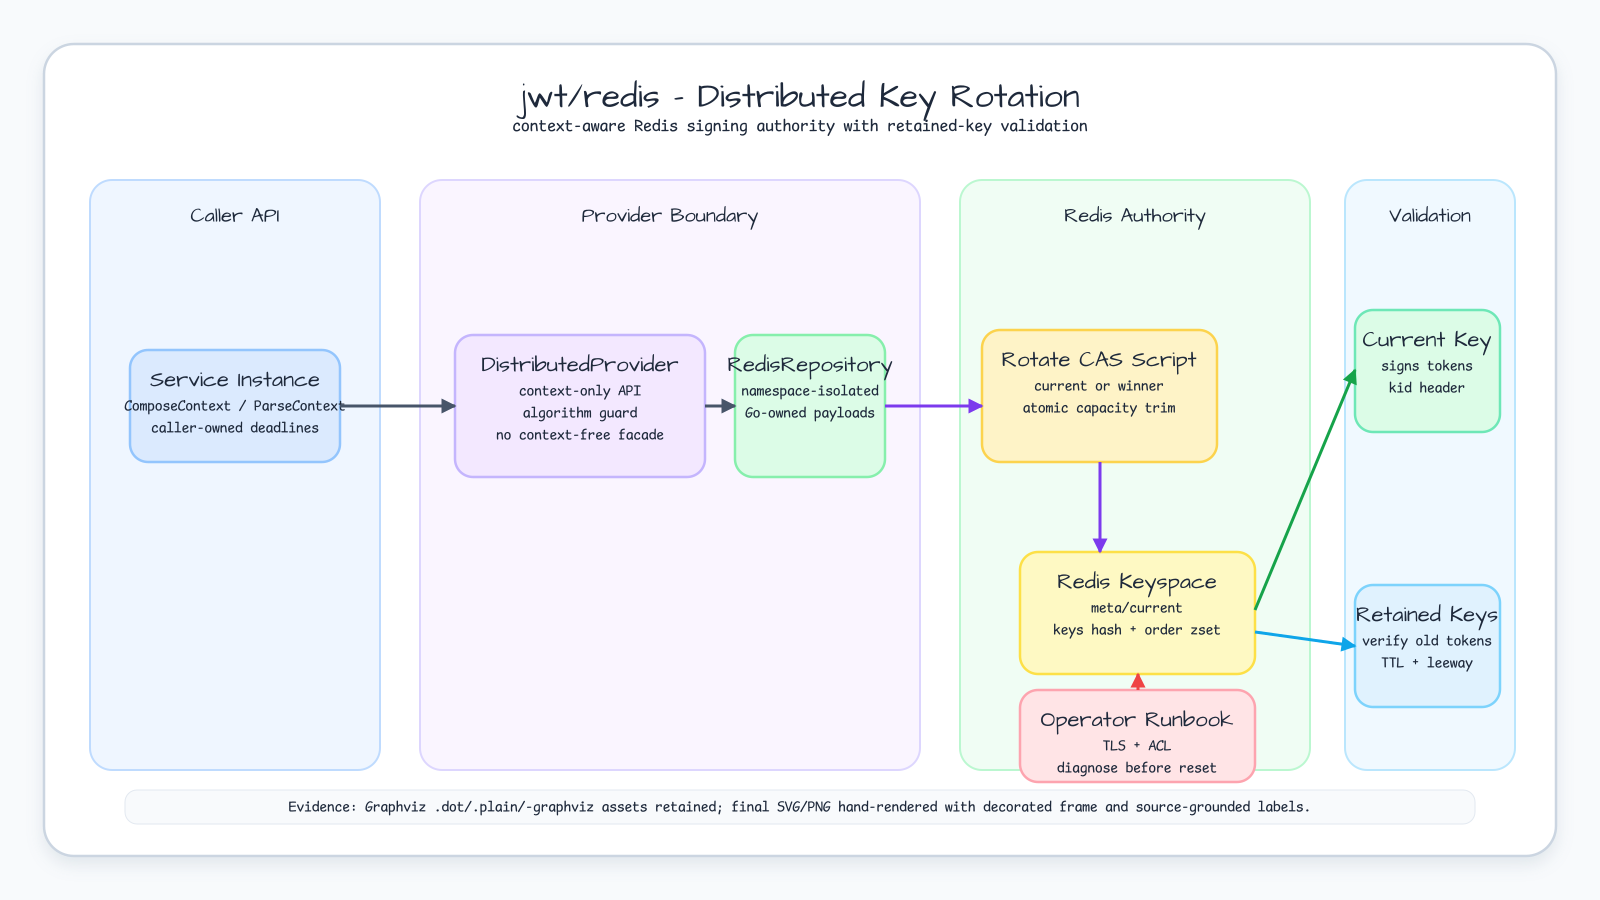
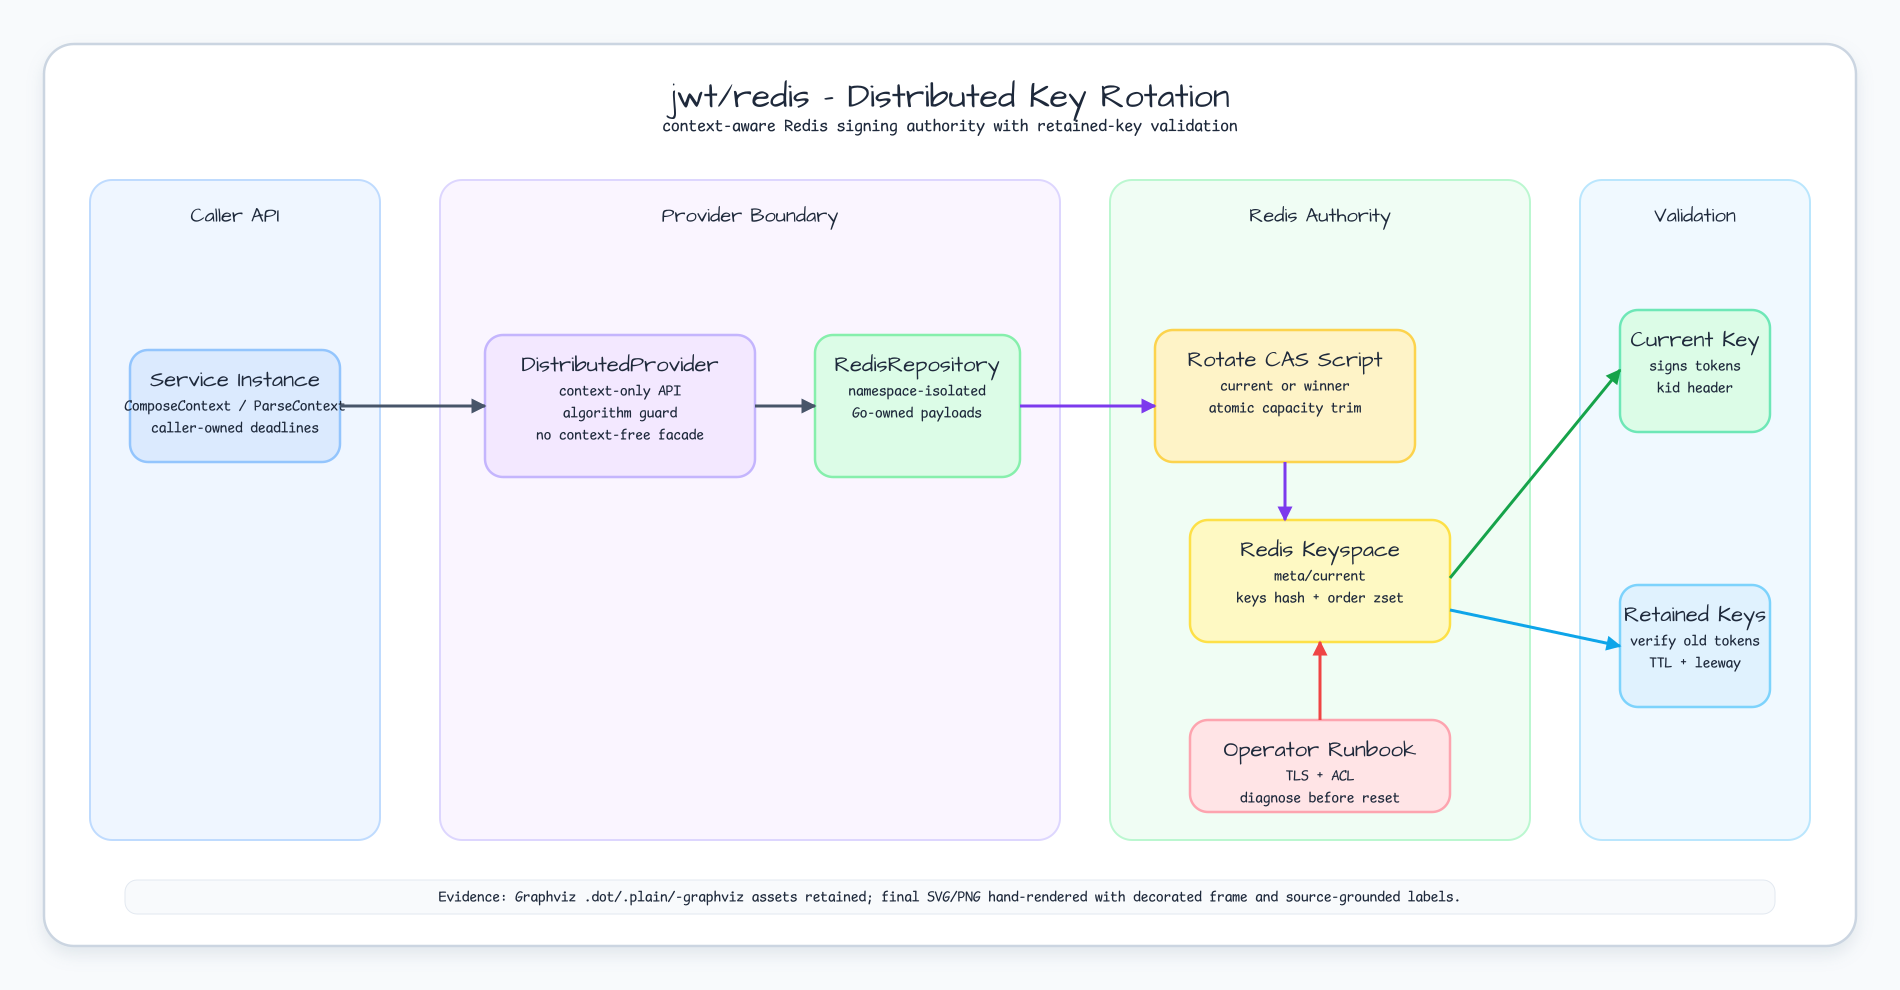
Widen distributed JWT diagram layout
Constraint: bluetape4k-diagram requires readable card text and visible spacing between adjacent cards.

Rejected: Keeping the narrower 1600px canvas | RedisRepository text and Redis authority card spacing were too tight at README scale.

Confidence: high

Scope-risk: narrow

Directive: Prefer increasing canvas width before squeezing diagram text or cards.

Tested: python3 docs/images/readme-diagrams/gen-readme-diagrams.py; xmllint redis JWT final SVG; README SVG embed scan; forbidden UI font scan; cmp final PNG against -graphviz PNG returns different; git diff --check; rendered PNG inspection

Not-tested: Production Redis ACL/TLS deployment

diff --git a/docs/images/readme-diagrams/gen-readme-diagrams.py b/docs/images/readme-diagrams/gen-readme-diagrams.py
@@ -298,7 +298,7 @@ def arrow(points: list[tuple[int, int]], color: str, label: str = "") -> str:
 
 
 def render_redis_jwt_final(final_svg: Path, final_png: Path) -> None:
-    svg = f'''<svg xmlns="http://www.w3.org/2000/svg" width="1600" height="900" viewBox="0 0 1600 900">
+    svg = f'''<svg xmlns="http://www.w3.org/2000/svg" width="1900" height="990" viewBox="0 0 1900 990">
 <defs>
   <filter id="shadow" x="-10%" y="-10%" width="120%" height="120%">
     <feDropShadow dx="0" dy="8" stdDeviation="8" flood-color="#94A3B8" flood-opacity="0.22"/>
@@ -319,39 +319,39 @@ def render_redis_jwt_final(final_svg: Path, final_png: Path) -> None:
     <path d="M 0 0 L 5 2.5 L 0 5 z" fill="#EF4444"/>
   </marker>
 </defs>
-<rect width="1600" height="900" fill="#F8FAFC"/>
-<rect x="44" y="44" width="1512" height="812" rx="30" fill="#FFFFFF" stroke="#CBD5E1" stroke-width="2.5" filter="url(#shadow)"/>
-{svg_text(800, 94, "jwt/redis - Distributed Key Rotation", 34, ARCH_FONT, "700")}
-{svg_text(800, 126, "context-aware Redis signing authority with retained-key validation", 16, DETAIL_FONT)}
+<rect width="1900" height="990" fill="#F8FAFC"/>
+<rect x="44" y="44" width="1812" height="902" rx="30" fill="#FFFFFF" stroke="#CBD5E1" stroke-width="2.5" filter="url(#shadow)"/>
+{svg_text(950, 94, "jwt/redis - Distributed Key Rotation", 34, ARCH_FONT, "700")}
+{svg_text(950, 126, "context-aware Redis signing authority with retained-key validation", 16, DETAIL_FONT)}
 
-<rect x="90" y="180" width="290" height="590" rx="22" fill="#EFF6FF" stroke="#BFDBFE" stroke-width="2"/>
+<rect x="90" y="180" width="290" height="660" rx="22" fill="#EFF6FF" stroke="#BFDBFE" stroke-width="2"/>
 {svg_text(235, 214, "Caller API", 20, ARCH_FONT, "700")}
-<rect x="420" y="180" width="500" height="590" rx="22" fill="#FAF5FF" stroke="#DDD6FE" stroke-width="2"/>
-{svg_text(670, 214, "Provider Boundary", 20, ARCH_FONT, "700")}
-<rect x="960" y="180" width="350" height="590" rx="22" fill="#F0FDF4" stroke="#BBF7D0" stroke-width="2"/>
-{svg_text(1135, 214, "Redis Authority", 20, ARCH_FONT, "700")}
-<rect x="1345" y="180" width="170" height="590" rx="22" fill="#F0F9FF" stroke="#BAE6FD" stroke-width="2"/>
-{svg_text(1430, 214, "Validation", 20, ARCH_FONT, "700")}
+<rect x="440" y="180" width="620" height="660" rx="22" fill="#FAF5FF" stroke="#DDD6FE" stroke-width="2"/>
+{svg_text(750, 214, "Provider Boundary", 20, ARCH_FONT, "700")}
+<rect x="1110" y="180" width="420" height="660" rx="22" fill="#F0FDF4" stroke="#BBF7D0" stroke-width="2"/>
+{svg_text(1320, 214, "Redis Authority", 20, ARCH_FONT, "700")}
+<rect x="1580" y="180" width="230" height="660" rx="22" fill="#F0F9FF" stroke="#BAE6FD" stroke-width="2"/>
+{svg_text(1695, 214, "Validation", 20, ARCH_FONT, "700")}
 
 {card(130, 350, 210, 112, "Service Instance", ["ComposeContext / ParseContext", "caller-owned deadlines"], "#DBEAFE", "#93C5FD")}
-{card(455, 335, 250, 142, "DistributedProvider", ["context-only API", "algorithm guard", "no context-free facade"], "#F3E8FF", "#C4B5FD")}
-{card(735, 335, 150, 142, "RedisRepository", ["namespace-isolated", "Go-owned payloads"], "#DCFCE7", "#86EFAC")}
-{card(982, 330, 235, 132, "Rotate CAS Script", ["current or winner", "atomic capacity trim"], "#FEF3C7", "#FCD34D")}
-{card(1020, 552, 235, 122, "Redis Keyspace", ["meta/current", "keys hash + order zset"], "#FEF9C3", "#FDE047")}
-{card(1355, 310, 145, 122, "Current Key", ["signs tokens", "kid header"], "#DCFCE7", "#6EE7B7")}
-{card(1355, 585, 145, 122, "Retained Keys", ["verify old tokens", "TTL + leeway"], "#E0F2FE", "#7DD3FC")}
-{card(1020, 690, 235, 92, "Operator Runbook", ["TLS + ACL", "diagnose before reset"], "#FFE4E6", "#FDA4AF")}
+{card(485, 335, 270, 142, "DistributedProvider", ["context-only API", "algorithm guard", "no context-free facade"], "#F3E8FF", "#C4B5FD")}
+{card(815, 335, 205, 142, "RedisRepository", ["namespace-isolated", "Go-owned payloads"], "#DCFCE7", "#86EFAC")}
+{card(1155, 330, 260, 132, "Rotate CAS Script", ["current or winner", "atomic capacity trim"], "#FEF3C7", "#FCD34D")}
+{card(1190, 520, 260, 122, "Redis Keyspace", ["meta/current", "keys hash + order zset"], "#FEF9C3", "#FDE047")}
+{card(1620, 310, 150, 122, "Current Key", ["signs tokens", "kid header"], "#DCFCE7", "#6EE7B7")}
+{card(1620, 585, 150, 122, "Retained Keys", ["verify old tokens", "TTL + leeway"], "#E0F2FE", "#7DD3FC")}
+{card(1190, 720, 260, 92, "Operator Runbook", ["TLS + ACL", "diagnose before reset"], "#FFE4E6", "#FDA4AF")}
 
-{arrow([(340, 406), (455, 406)], "#475569")}
-{arrow([(705, 406), (735, 406)], "#475569")}
-{arrow([(885, 406), (982, 406)], "#7C3AED")}
-{arrow([(1100, 462), (1100, 552)], "#7C3AED")}
-{arrow([(1255, 610), (1355, 370)], "#16A34A")}
-{arrow([(1255, 632), (1355, 646)], "#0EA5E9")}
-{arrow([(1138, 690), (1138, 674)], "#EF4444")}
+{arrow([(340, 406), (485, 406)], "#475569")}
+{arrow([(755, 406), (815, 406)], "#475569")}
+{arrow([(1020, 406), (1155, 406)], "#7C3AED")}
+{arrow([(1285, 462), (1285, 520)], "#7C3AED")}
+{arrow([(1450, 578), (1620, 370)], "#16A34A")}
+{arrow([(1450, 610), (1620, 646)], "#0EA5E9")}
+{arrow([(1320, 720), (1320, 642)], "#EF4444")}
 
-<rect x="125" y="790" width="1350" height="34" rx="12" fill="#F8FAFC" stroke="#E2E8F0"/>
-{svg_text(800, 807, "Evidence: Graphviz .dot/.plain/-graphviz assets retained; final SVG/PNG hand-rendered with decorated frame and source-grounded labels.", 14, DETAIL_FONT)}
+<rect x="125" y="880" width="1650" height="34" rx="12" fill="#F8FAFC" stroke="#E2E8F0"/>
+{svg_text(950, 897, "Evidence: Graphviz .dot/.plain/-graphviz assets retained; final SVG/PNG hand-rendered with decorated frame and source-grounded labels.", 14, DETAIL_FONT)}
 </svg>
 '''
     final_svg.write_text(svg)
